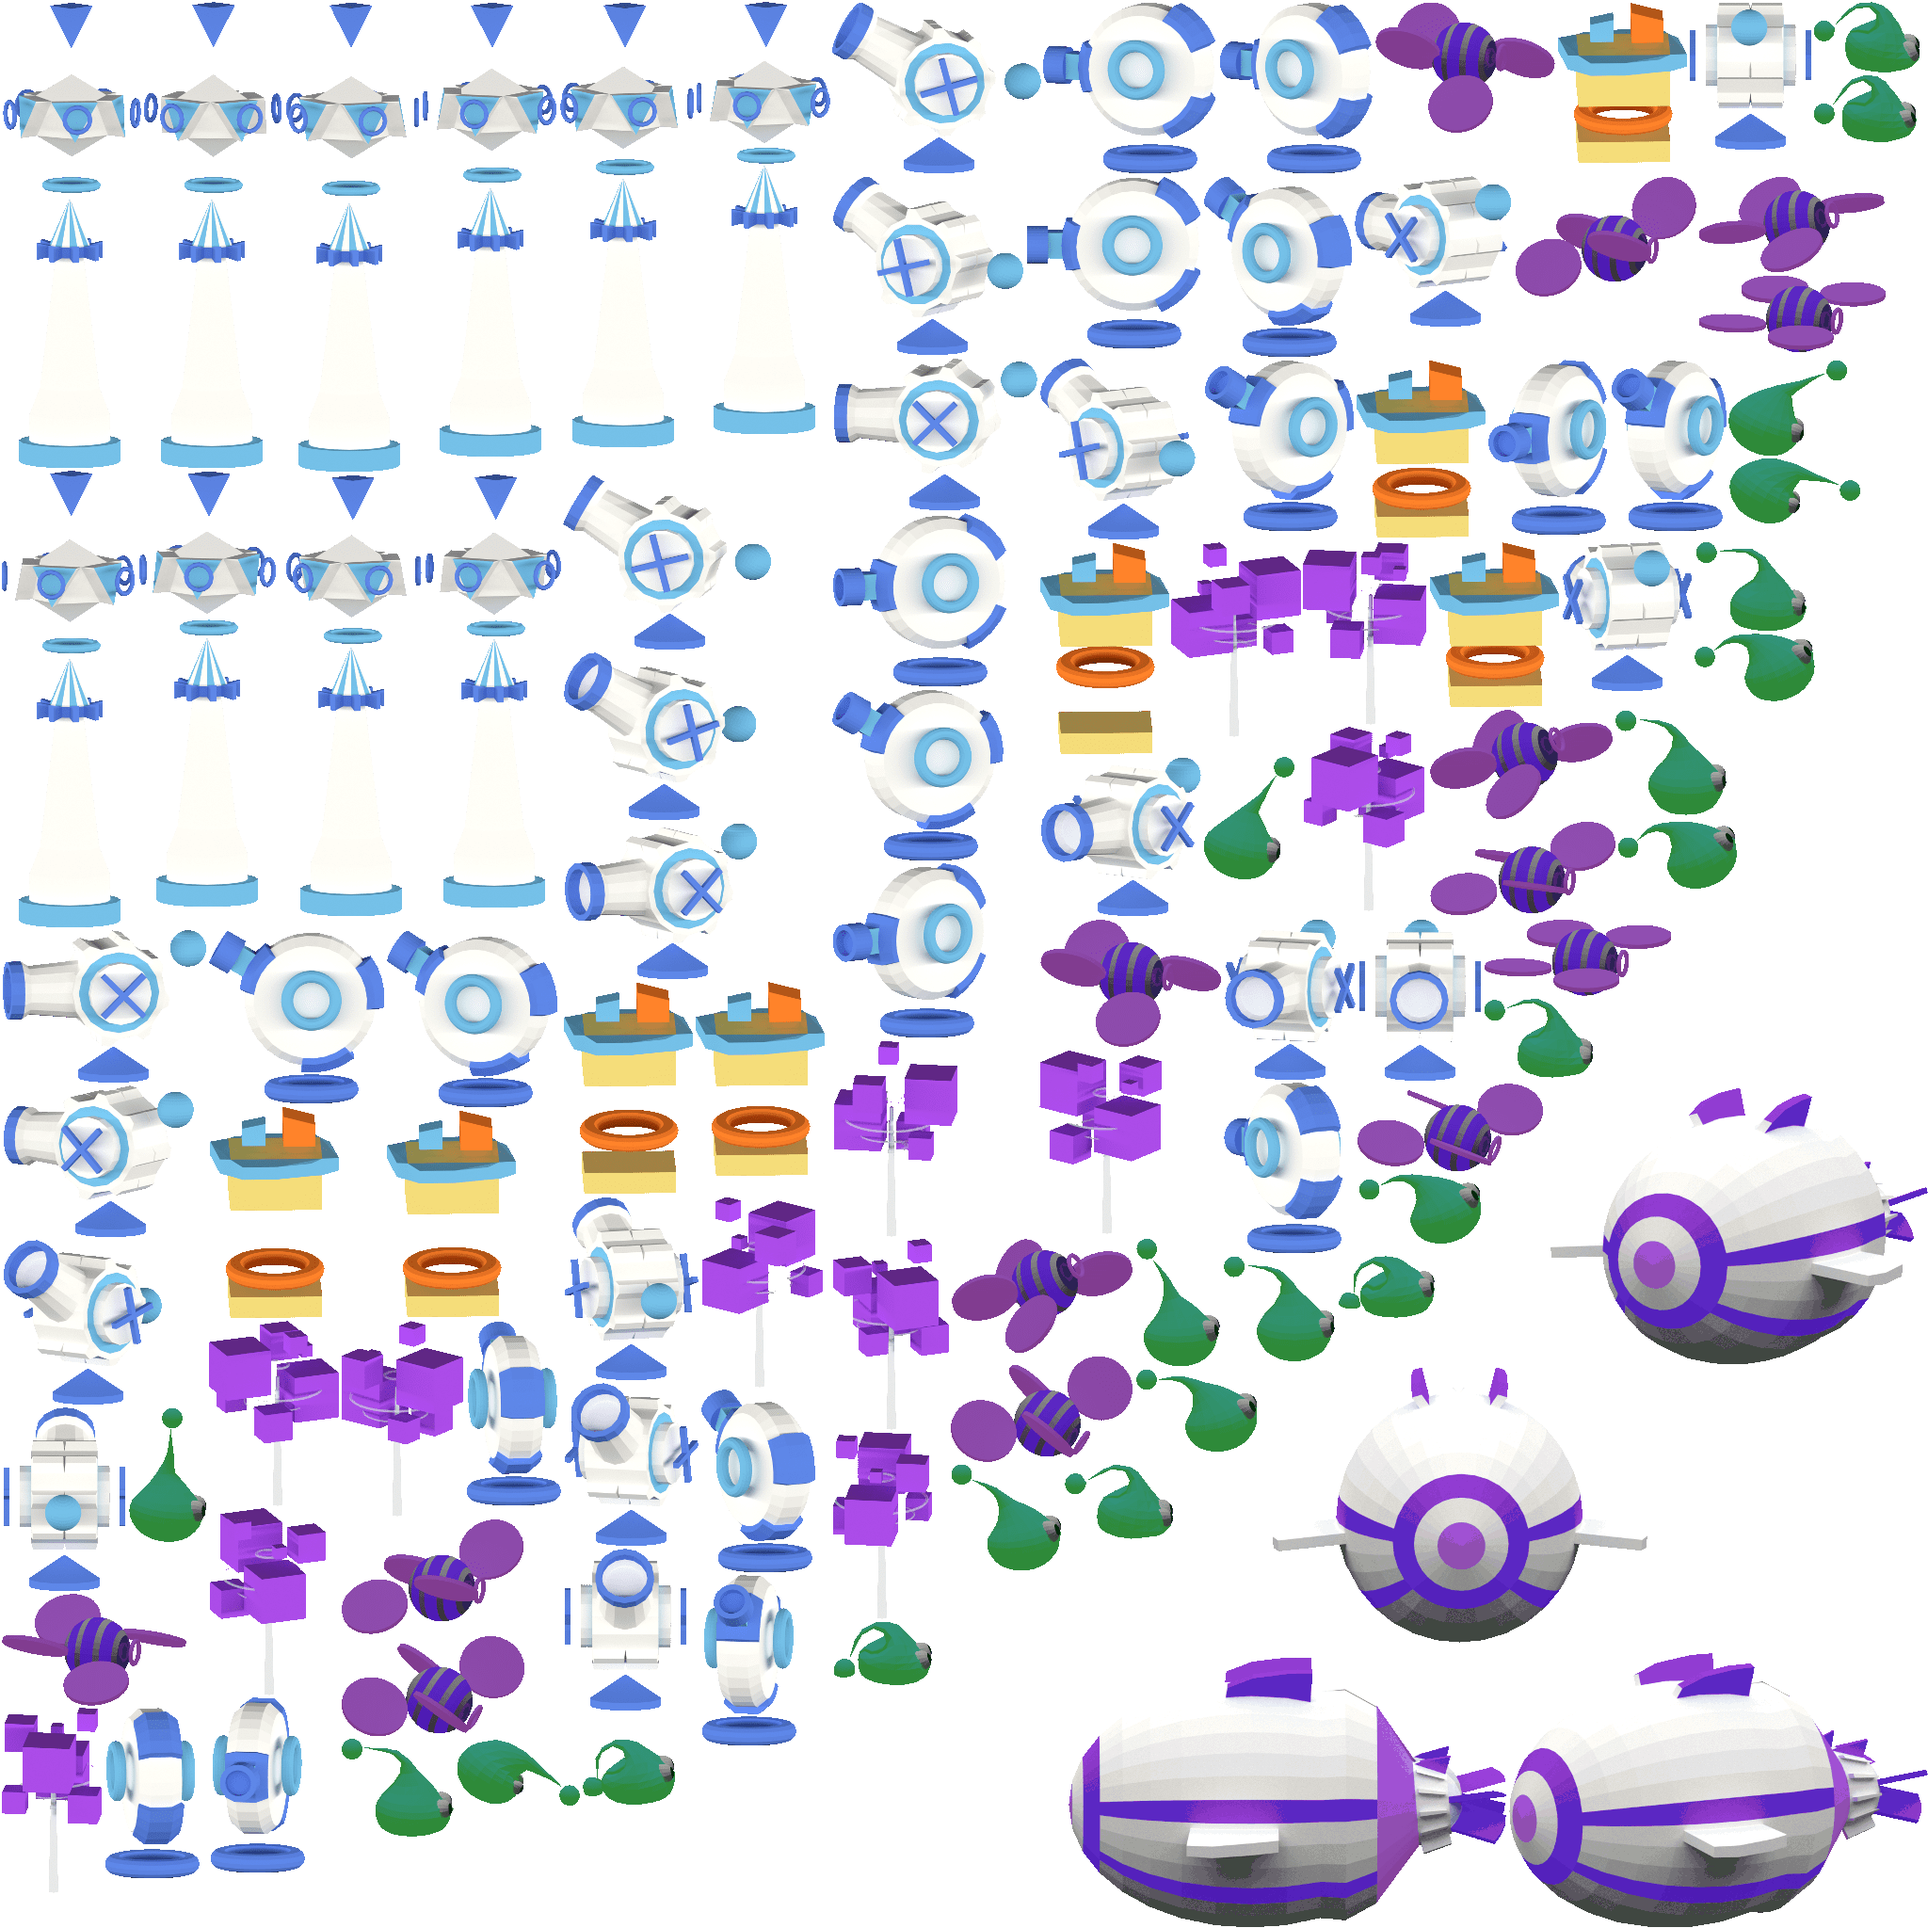
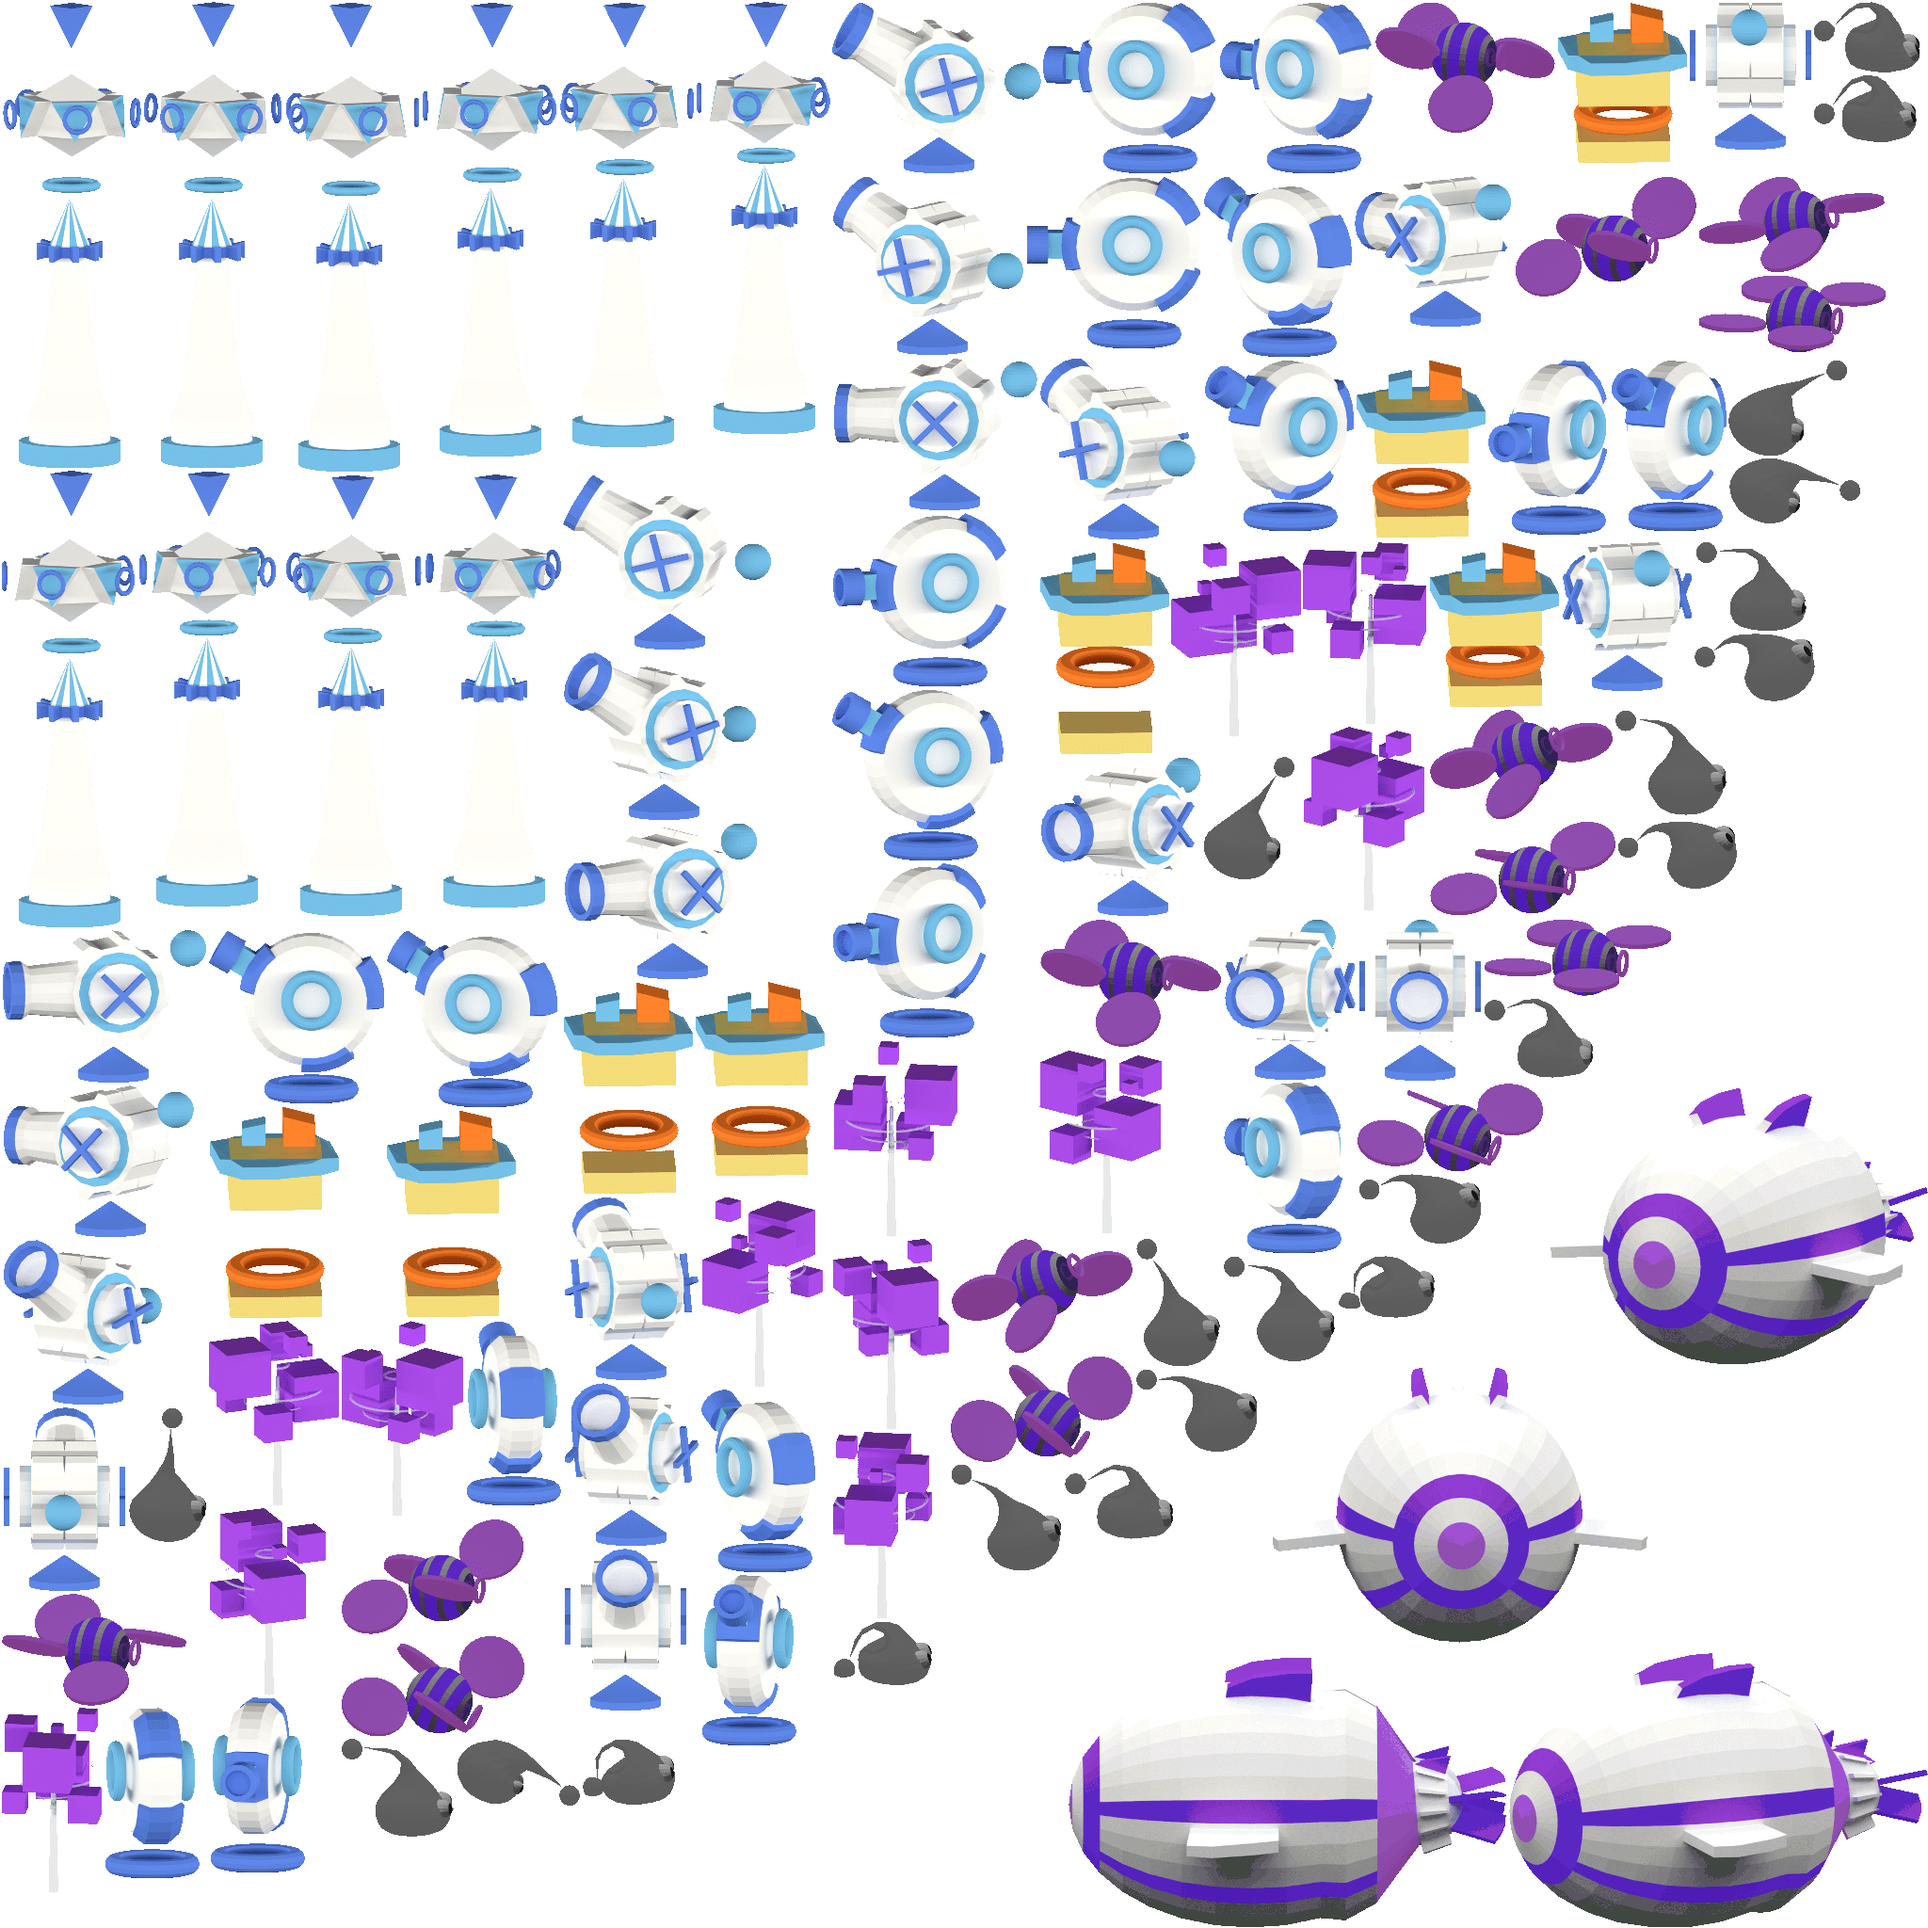
Slimes now generate in red/green/blue.

diff --git a/GBC2017/GBC2017/Entities/Enemies/SlimeAlien.cs b/GBC2017/GBC2017/Entities/Enemies/SlimeAlien.cs
@@ -41,6 +41,27 @@ namespace GBC2017.Entities.Enemies
 
             _jumpStart = Slime_Jump.CreateInstance();
             _jumpLand = Slime_Land.CreateInstance();
+
+            var randomChoice = FlatRedBallServices.Random.Next(0, 3);
+            if (randomChoice == 0)
+            {
+                SpriteInstance.Red = LightSprite.Red = 1;
+                SpriteInstance.Green = LightSprite.Green = 0;
+                SpriteInstance.Blue = LightSprite.Blue = 0;
+            }
+            else if (randomChoice == 1)
+            {
+                SpriteInstance.Red = LightSprite.Red = 0;
+                SpriteInstance.Green = LightSprite.Green = 1;
+                SpriteInstance.Blue = LightSprite.Blue = 0;
+            }
+            else
+            {
+                SpriteInstance.Red = LightSprite.Red = 0;
+                SpriteInstance.Green = LightSprite.Green = 0;
+                SpriteInstance.Blue = LightSprite.Blue = 1;
+            }
+
         }
 
 	    public void AddSpritesToLayers(FlatRedBall.Graphics.Layer darknessLayer, Layer hudLayer)

diff --git a/GBC2017/GBC2017/Entities/Enemies/SmallSlime.cs b/GBC2017/GBC2017/Entities/Enemies/SmallSlime.cs
@@ -44,6 +44,26 @@ namespace GBC2017.Entities.Enemies
 	        meleeAttackSound.Pitch = SpriteInstance.TextureScale;
             _jumpStart.Pitch = SpriteInstance.TextureScale;
 	        _jumpLand.Pitch = SpriteInstance.TextureScale;
+
+	        var randomChoice = FlatRedBallServices.Random.Next(0, 3);
+	        if (randomChoice == 0)
+	        {
+	            SpriteInstance.Red = LightSprite.Red = 1;
+	            SpriteInstance.Green = LightSprite.Green = 0;
+	            SpriteInstance.Blue = LightSprite.Blue = 0;
+	        }
+	        else if (randomChoice == 1)
+	        {
+	            SpriteInstance.Red = LightSprite.Red = 0;
+	            SpriteInstance.Green = LightSprite.Green = 1;
+	            SpriteInstance.Blue = LightSprite.Blue = 0;
+	        }
+	        else
+	        {
+	            SpriteInstance.Red = LightSprite.Red = 0;
+	            SpriteInstance.Green = LightSprite.Green = 0;
+	            SpriteInstance.Blue = LightSprite.Blue = 1;
+	        }
         }
 
 	    public void AddSpritesToLayers(Layer darknessLayer, Layer hudLayer)
